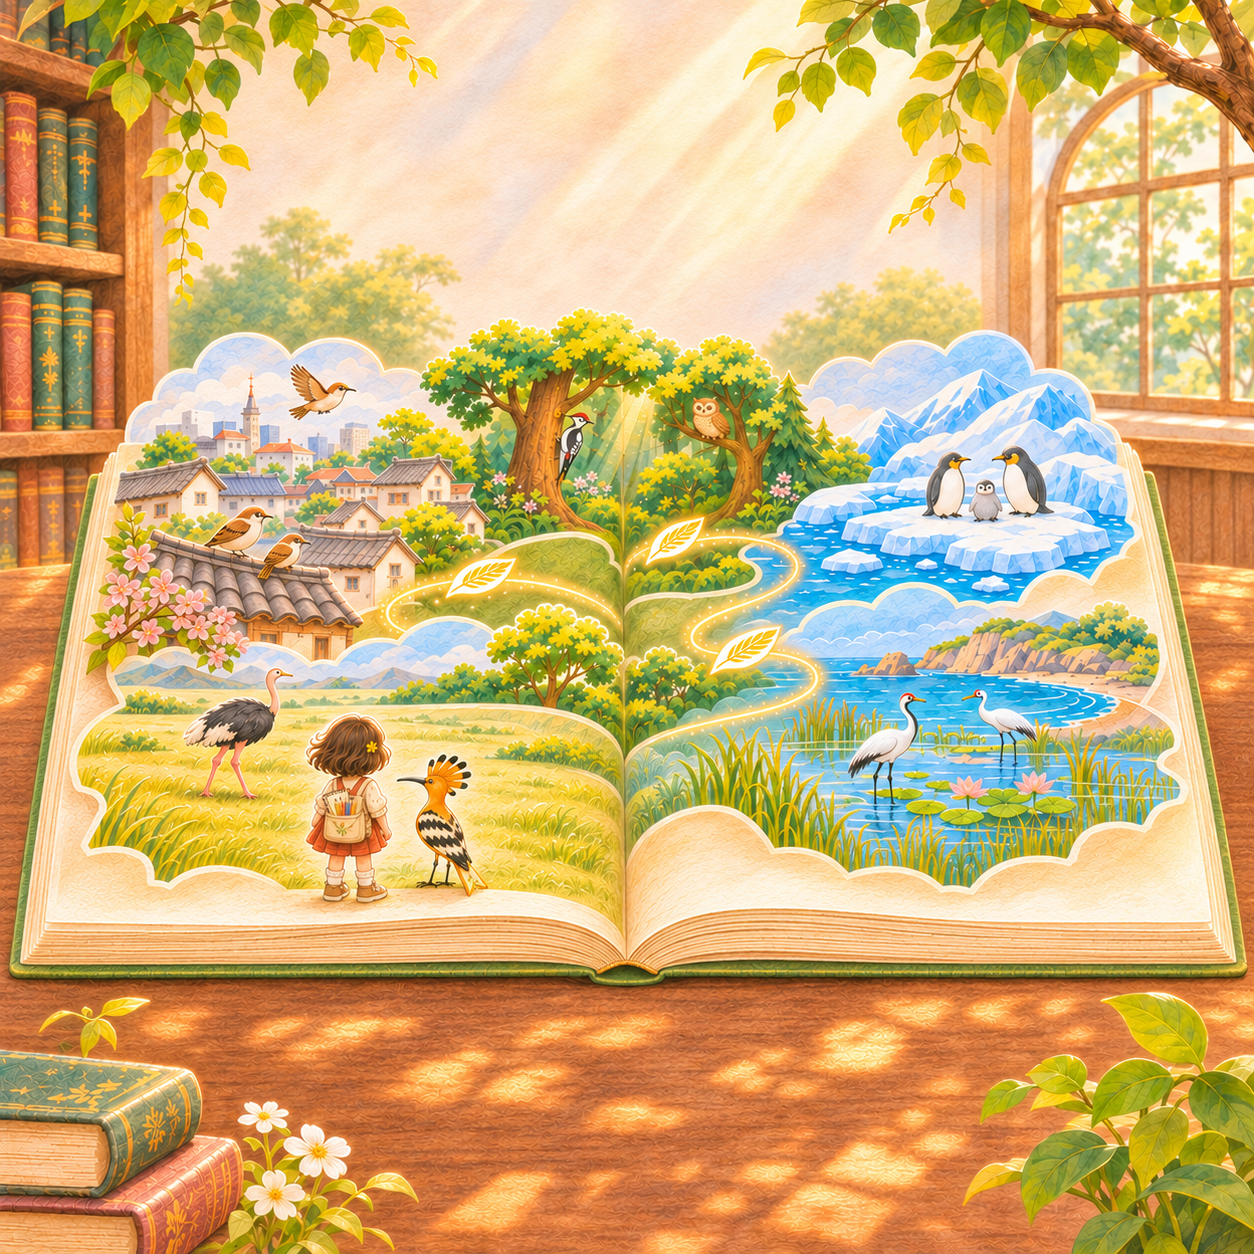
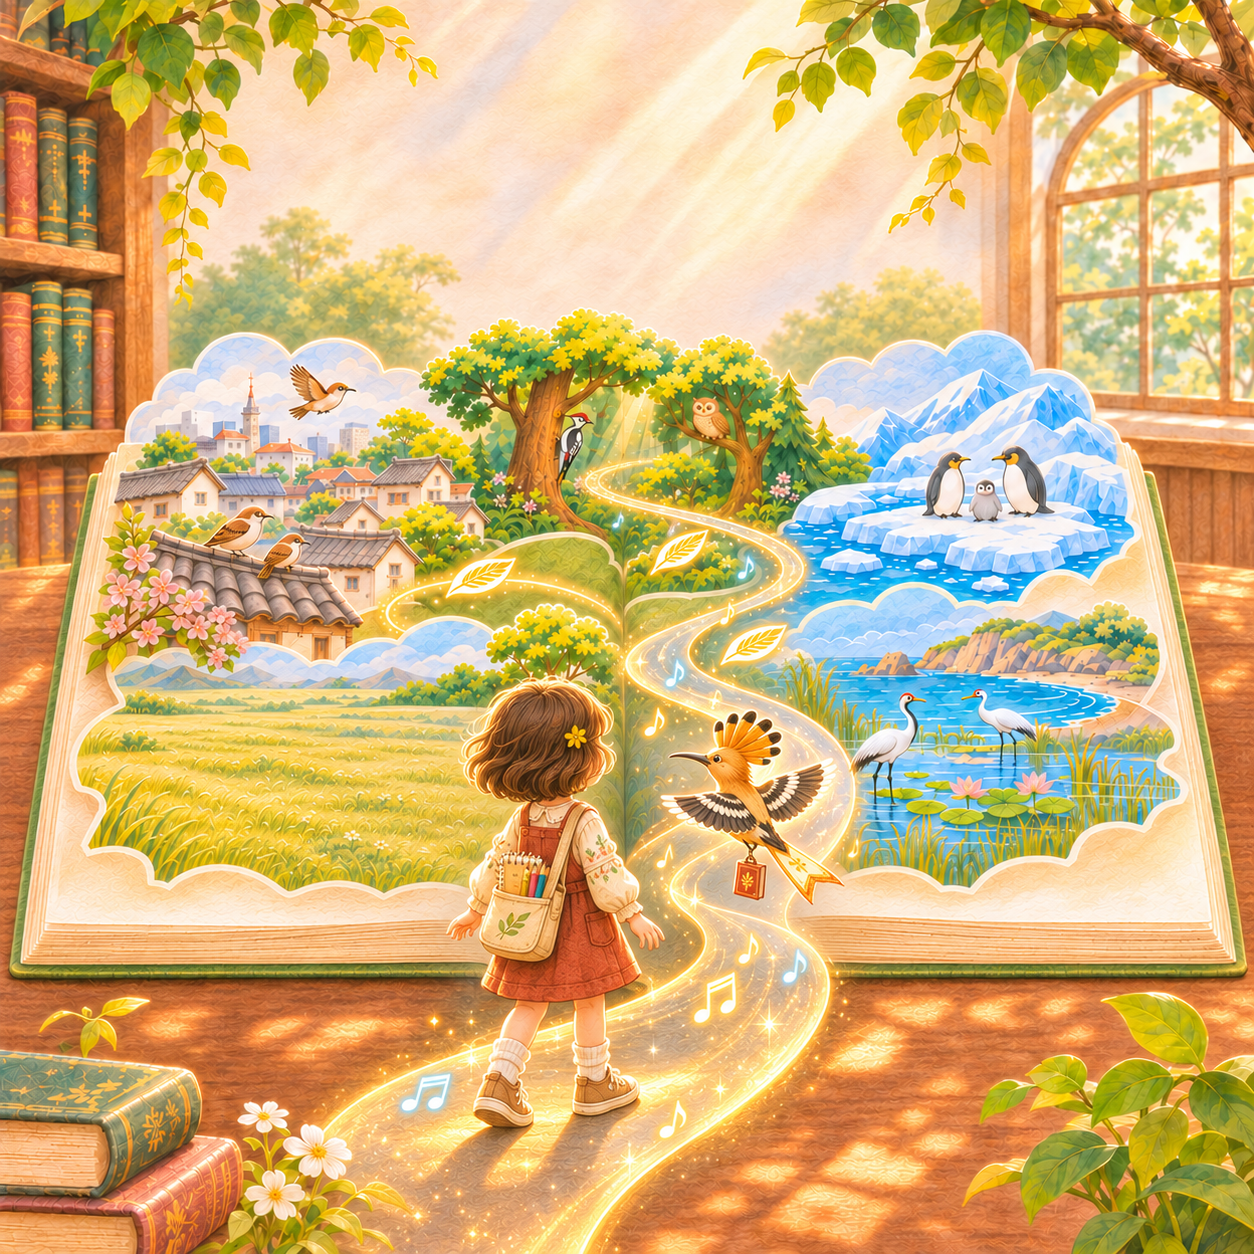
Correct bird sightlines and magical book scenes on eight pages

diff --git a/鸟类绘本/正式制图剧本.md b/鸟类绘本/正式制图剧本.md
@@ -9,7 +9,7 @@
 - 小满沿用已确认设定：5岁，脸型与短发保持一致，小布包里有笔记本和彩铅，第二章起增加便携录音机（P14准备，P15起实地使用；章扉为预告，封面不计入正文时间线）。服饰、鞋帽必须适应鸟类活动场景与天气：干燥草地穿轻便鞋，田边灌丛穿合适的徒步鞋与长裤，溪流泥地穿雨靴，室内穿轻便衣物。帽子按遮阳、防寒或防雨需要选择；不再固定黄外套与黄雨靴，也不为换装强行切换季节。
 - 羽羽是戴胜鸟书精灵：金棕色身体，黑尖扇形羽冠，细长微弯喙，黑白横斑翅膀，书签状尾羽。布谷鸟是另一只鸟：无羽冠、灰色头胸、浅色横纹腹部、深色长尾。
 - 全书延续温暖的儿童卡通水彩和彩铅风格。夜晚、雪地保留环境色，用灯光、衣服或晨昏光维持温暖感。
-- 金色双音符专属于布谷鸟线索；其他鸟鸣用不同色彩和节奏表示。实物、声音和魔法图示需可区分。
+- 布谷鸟声音线索采用成对金色音符；其他鸟鸣用不同色彩和节奏表示。P3的金蓝音符光路属于魔法转场，用道路的体积与延伸区分于真实鸟鸣声源。实物、声音和魔法图示需可区分。
 - 录音机统一使用[用户选中的P24款式及手部比例](制图参考/README.md)，保留顶部单个圆形灰色防风毛罩。机身与手的关系、按键布局和桌面实际尺寸跨页保持一致；未使用时可收在包内，不复制多台设备。
 - 书本带人物穿越不同地区和时段，不暗示所有鸟都生活在同一片森林。各页百科与故事分区排版，长文按自然语句断行。
 - 本稿保留四章与40页，章扉改为P3/P13/P21/P30，四章分别为10/8/9/7页。这里的页码是内容编号；若实体装订将封面另计，需另做印刷页码表。
@@ -41,7 +41,7 @@
 
 ### P1｜封面
 
-**画面建议：** 四章扩写版封面：巨大旧绿皮百科左右两面充分展开，左右内页朝上，中间书槽清楚，薄封皮贴在两侧纸页堆下方，书脊位于书槽下方自然连接；不画成箱子、竖直绿面板或单面封皮。小满双脚站稳在左侧展开的书页上，一手伸向羽毛，另一手自然保持平衡，穿米白叶纹长袖、砖红背带裙、袜子和浅棕帆布鞋；布包露出笔记本和彩铅，侧面挂小录音机。右侧少量内页可以轻轻翻起如翼，但仍可辨认左右两页的展开关系。羽羽保留戴胜鸟特征、书签尾羽与颈间砖红金边小书，带出羽毛路径。远景屋檐、树林、湿地与雪峰轻巧预告旅行，不暗示不同生境的鸟共处同一区域；右侧中景枝头灰色无冠布谷鸟与两枚金色音符保持次要。无字原画不带主标题、纸签或书脊汉字；标题正文和寻找提示独立透明交付。人物全身约画高40%，脸、双手、双脚和主要动物不贴四边，外围连续自然环境为装订留余量。
+**画面建议：** 四章扩写版封面：巨大旧绿皮百科左右两面充分展开，左右内页朝上，中间书槽清楚，薄封皮贴在两侧纸页堆下方，书脊位于书槽下方自然连接；不画成箱子、竖直绿面板或单面封皮。左右内页带有翠鸟、鸟翼、羽毛与枝叶等疏朗的平面彩绘，图案服从纸面透视、卷曲及鞋底遮挡，没有文字，不变成立体鸟或纸雕；小满双脚站稳在左侧展开的书页上，一手伸向羽毛，另一手自然保持平衡，穿米白叶纹长袖、砖红背带裙、袜子和浅棕帆布鞋；布包露出笔记本和彩铅，侧面挂小录音机。右侧少量内页可以轻轻翻起如翼，但仍可辨认左右两页的展开关系。羽羽保留戴胜鸟特征、书签尾羽与颈间砖红金边小书，带出羽毛路径。远景屋檐、树林、湿地与雪峰轻巧预告旅行，不暗示不同生境的鸟共处同一区域；右侧中景枝头灰色无冠布谷鸟与两枚金色音符保持次要。无字原画不带主标题、纸签或书脊汉字；标题正文和寻找提示独立透明交付。人物全身约画高40%，脸、双手、双脚和主要动物不贴四边，外围连续自然环境为装订留余量。
 
 **封面标题：** 羽毛图书馆：会飞的鸟类大百科
 
@@ -67,7 +67,7 @@
 
 ### P3｜第一章：飞向世界
 
-**画面建议：** 参考原章扉，以图书馆里的旧绿皮立体书地图预示旅程：屋檐、森林、浮冰、草原与湿地浮在纸上。小满与羽羽用小比例背影表现，避免提前重复下一页的初次见面；小满穿米白上衣、砖红背带裙和帆布鞋。
+**画面建议：** 图书馆里的旧绿皮立体地图书保留左右展开内页与屋檐、森林、浮冰、草原和湿地等生境模型。书槽中延伸出一条由音符与光线汇聚成的魔法道路，越过书的前沿通向书外图书馆空间，再回旋引向远方；近段光路有足够宽度承托双脚。小满作为有真实体积的女孩站在书外近景的音符光路上，鞋底有接触光晕与投影，不站在纸面插画里，不画成书中小人；穿米白上衣、砖红背带裙、帆布鞋，带笔记本和彩铅布包，以三分之四背影望向旅程。羽羽只有一只，在光路旁有体积地轻飞，保留戴胜特征、书签尾和红金小书挂件。四周留连续图书馆环境与装订余量，无标题、文字或纸签。
 
 **绘本文字：**
 
@@ -136,7 +136,7 @@
 
 ### P9｜湿地丹顶鹤
 
-**画面建议：** 保留浅水、芦苇、晨雾和完整倒影。小满在有护栏的潮湿栈道上看丹顶鹤轻抬一脚，穿米白植物纹外套、绿色裤装、绿色桶帽和黄色防水雨靴；羽羽停栏杆上，小音符书签藏在栈道边。双手轻扶膝部，四指向下、拇指位于掌侧，每手按四指加一拇绘制，不画四指卡通手；手型和接触关系自然。
+**画面建议：** 保留浅水、芦苇、晨雾和完整倒影。小满在有护栏的潮湿栈道上观察浅水丹顶鹤轻抬一脚，头颈自然转向鹤，降低原来过度仰视的下巴，双眼聚焦鹤的红顶与头部，不把栏杆羽羽或天空空处当作目标；穿米白植物纹外套、绿色裤装、绿色桶帽和黄色防水雨靴；羽羽停在靠近读者一侧的较高栏柱上，头冠避开小满到丹顶鹤之间的视线，小音符书签藏在栈道边。双手轻扶膝部，四指向下、拇指位于掌侧，每手按四指加一拇绘制，不画四指卡通手；手型和接触关系自然。
 
 **绘本文字：**
 
@@ -227,7 +227,7 @@
 
 ### P17｜月光里的歌
 
-**画面建议：** 本次书页旅行抵达暮色中的欧洲林地。小满沿溪边林路停步，举录音机倾听眼前灌丛枝头的棕褐色夜莺；暖灯照亮脚边。夜鹰在远处林冠缺口追逐飞虫，以真实连续环境表现，不用书页拼贴。
+**画面建议：** 本次书页旅行抵达暮色中的欧洲林地。小满沿溪边林路停步，举录音机倾听眼前灌丛枝头的棕褐色夜莺，降低下巴，头颈和双眼接近水平望向夜莺眼睛与喙，不仰看夜鹰或月亮；暖灯照亮脚边。夜鹰在远处林冠缺口追逐飞虫，以真实连续环境表现，不用书页拼贴。
 
 **绘本文字：**
 
@@ -238,7 +238,7 @@
 
 ### P18｜清晨的合唱
 
-**画面建议：** 清晨，小满沿林缘草地小径前行，一手拢耳、一手举录音机。拢耳手四指轻弯形成浅杯形，拇指位于掌侧，不堵耳或与头发融合；举机手自然包握机身，允许指节合理遮挡，手腕与前臂顺接，不遮满屏幕、红键及麦克风。羽羽停在路旁木桩。画眉在灌丛、百灵在草地上空、黄鹂在树冠，分布于同一个有纵深的自然场景，不作分框展示。
+**画面建议：** 清晨，小满沿林缘草地小径前行，一手拢耳、一手举录音机，头颈与双眼一起转向左上方空中飞唱的百灵；百灵位于小满左上方开阔天空，不望向右侧羽羽或空白处。拢耳手四指轻弯形成浅杯形，拇指位于掌侧，不堵耳或与头发融合；举机手自然包握机身，允许指节合理遮挡，手腕与前臂顺接，不遮满屏幕、红键及麦克风。羽羽停在路旁木桩。画眉在灌丛、百灵在草地上空、黄鹂在树冠，分布于同一个有纵深的自然场景，不作分框展示。
 
 **绘本文字：**
 
@@ -249,7 +249,7 @@
 
 ### P19｜湿地里的三位邻居
 
-**画面建议：** 小满走进芦苇间的弯曲木栈道，一手扶栏，一手举起录音机，目光追随身旁游过的黑水鸡。扶栏手掌根贴合栏顶，四指轻弯、拇指自然位于掌侧；拿录音机的手四指顺机身侧下缘包握承托，独立拇指轻扶另一侧，腕部与袖口顺接。双手均按四指加一拇绘制，允许自然遮挡，不强行摊开五指；手指不与木栏或机身融合，不遮挡屏幕、红键和麦克风。近景芦苇、水面倒影与伸向深处的栈道形成纵深，白鹭和苍鹭自然散落在远处湿地。黑水鸡额甲红、嘴尖黄、体羽深色；不与白额骨顶鸡混画。
+**画面建议：** 小满走进芦苇间的弯曲木栈道，一手扶栏，一手举起录音机，自然低头向右下方看近处游过的黑水鸡，头颈和瞳孔共同聚焦它的红额甲、眼睛与嘴，不能仰看远处白鹭苍鹭或录音机。扶栏手掌根贴合栏顶，四指轻弯、拇指自然位于掌侧；拿录音机的手四指顺机身侧下缘包握承托，独立拇指轻扶另一侧，腕部与袖口顺接。双手均按四指加一拇绘制，允许自然遮挡，不强行摊开五指；手指不与木栏或机身融合，不遮挡屏幕、红键和麦克风。近景芦苇、水面倒影与伸向深处的栈道形成纵深，白鹭和苍鹭自然散落在远处湿地。黑水鸡额甲红、嘴尖黄、体羽深色；不与白额骨顶鸡混画。
 
 **绘本文字：**
 
@@ -375,7 +375,7 @@
 
 ### P30｜第四章：鸟儿怎样生活
 
-**画面建议：** 魔法书页把小满和羽羽带到林缘步道。前景落叶、中景林下觅食的鸟影、远处竹林与栎树形成真实连续环境，预告本章林下家族、筑巢和储藏食物的生活，不用巨书托景或分框拼贴。小满一手拿录音机、一手握布包背带，侧头观察林下；拿机手四指从侧后方自然包握、独立拇指在对侧轻扶，腕部顺接前臂，机身不穿掌、不粘手。穿米白长袖、橄榄色长裤和包脚步行鞋，软檐帽按日照需要佩戴，保持5岁短发形象及羽羽的小书挂件。
+**画面建议：** 魔法书页把小满和羽羽带到林缘步道。前景落叶、中景林下觅食的鸟影、远处竹林与栎树形成真实连续环境，预告本章林下家族、筑巢和储藏食物的生活，不用巨书托景或分框拼贴。小满一手将录音机自然低持于下胸至腰侧，一手握布包背带；头颈和双眼明确朝左下方，聚焦树根边觅食的褐色鸟，机身避开视线，不看设备或空白处；拿机手四指从侧后方自然包握、独立拇指在对侧轻扶，腕部顺接前臂，机身不穿掌、不粘手。穿米白长袖、橄榄色长裤和包脚步行鞋，软檐帽按日照需要佩戴，保持5岁短发形象及羽羽的小书挂件。
 
 **绘本文字：**
 
@@ -397,7 +397,7 @@
 
 ### P32｜竹林里的野生亲戚
 
-**画面建议：** 竹林边缘的干燥落叶小径，雄原鸡羽毛醒目，附近有羽色低调的雌鸟。小满双脚稳站竹径，躯干和肩线自然侧向右侧原鸡，双手在下胸至腰部前方共同捧着画有家鸡的小速写本，抬头观察比较；取消高举扶竹动作，不保留旧手臂或残留指头。左右上臂从各自肩部自然向下，双肘低于肩并靠近身体，前臂向身前承托本子，腕部不反折；双手按四指加一拇绘制，允许纸页自然遮挡。背包位于背后，不能让手臂像从背部或包内伸出。羽羽在低竹栏旁陪伴，保留家鸡速写；小满穿浅薄荷绿长袖、橄榄色长裤、遮阳帽和包脚步行鞋，保持观察距离。
+**画面建议：** 竹林边缘的干燥落叶小径，雄原鸡羽毛醒目，附近有羽色低调的雌鸟。小满双脚稳站竹径，躯干和肩线自然朝向所观察的原鸡，双手在下胸至腰部前方共同捧着画有家鸡的小速写本，头颈自然转向画面左侧，降低仰头角度，双眼接近水平略向下聚焦石上雄原鸡的红冠和眼睛，不仰望树冠；取消高举扶竹动作，不保留旧手臂或残留指头。左右上臂从各自肩部自然向下，双肘低于肩并靠近身体，前臂向身前承托本子，腕部不反折；双手按四指加一拇绘制，允许纸页自然遮挡。背包位于背后，不能让手臂像从背部或包内伸出。羽羽在低竹栏旁陪伴，保留家鸡速写；小满穿浅薄荷绿长袖、橄榄色长裤、遮阳帽和包脚步行鞋，保持观察距离。
 
 **绘本文字：**
 

diff --git a/鸟类绘本/正式素材/README.md b/鸟类绘本/正式素材/README.md
@@ -4,7 +4,7 @@
 
 依据[正式制图剧本](../正式制图剧本.md)与[制图约束规范](../制图约束规范.md)，按新版章节顺序归档。场景保存工具生成原尺寸，不超分或插值放大；标题正文与纸签为真正RGBA透明PNG，按原生像素无损分离，未用电脑字体替代手写字。工具输出的PPI元数据按实际保留，不用PPI声称新增细节。
 
-本轮重新构图、适当缩小主体，外围连续自然环境为装订预留空间；生成比例是目标，需结合实际印刷工艺继续审阅。封面巨书两面展开，小满站一侧书页。
+本轮重新构图、适当缩小主体，外围连续自然环境为装订预留空间；生成比例是目标，需结合实际印刷工艺继续审阅。封面巨书两面展开，内页有平面自然彩绘，小满站一侧书页；P3小满站在由书内延伸到书外的音符光路上。
 
 P1为寻找提示；P37为观察记录（含本页百科）；P38献辞、P39封三没有百科，不生成虚构贴士；P40为亲子观察。标题正文层包含本页正文，不只标题；P38仅保留正式献辞，不另加标题。
 
@@ -57,15 +57,15 @@ P1为寻找提示；P37为观察记录（含本页百科）；P38献辞、P39封
 
 | 页码 | SHA-256 |
 |---|---|
[15 lines of base64/hex data omitted]
@@ -73,9 +73,9 @@ P1为寻找提示；P37为观察记录（含本页百科）；P38献辞、P39封
[12 lines of base64/hex data omitted]
@@ -86,9 +86,9 @@ P1为寻找提示；P37为观察记录（含本页百科）；P38献辞、P39封
[11 lines of base64/hex data omitted]

diff --git a/鸟类绘本/制图约束规范.md b/鸟类绘本/制图约束规范.md
@@ -33,7 +33,7 @@
 - 随身小布包，露出笔记本和彩铅。第二章起按情节使用便携录音机，避免无意复制出多台相同道具。
 - 录音机按[用户确认款与手部比例](制图参考/README.md)绘制：深灰小型竖式机身、一个圆形灰色防风毛罩、上方小屏、屏下小红键、下半部圆形控制区。P24标准原图保持不改；其他手持、桌面及包侧状态统一同款与实际比例，每景只一台，不改成双毛球、大音箱或无毛罩的另一款。
 - 衣服、鞋帽随天气、地面与活动变化。黄色雨靴不是永久标识；无雨水、泥地时不默认穿雨靴。
-- 观察时眼神明确望向鸟；画画时看记录，听录音时可闭眼微笑，动作应与情节相符。
+- 观察时先确定一只具体目标鸟，再让头颈、下巴仰俯角与双眼瞳孔共同指向它的头或正在发生的动作，不能统一仰头看天空，也不能把羽羽或录音机误作目标。画画时看记录，听录音时可闭眼微笑。P9看丹顶鹤，P17近乎平视枝头夜莺，P18向左上看空中百灵，P19低头看近处黑水鸡，P30向左下看树根觅食鸟，P32近乎平视雄原鸡；以当前图中实际位置核对，不能只照抄抽象的“抬头观察”。
 
 ### 羽羽：戴胜鸟书精灵
 
@@ -48,7 +48,7 @@
 - 可卡通化，但不能借用戴胜的羽冠、金棕色身体，也不能画成啄木鸟。
 - 显形鸣叫时，两脚抓住树枝，身体侧向近水平，抬头张嘴；不竖直抱住树干。
 - 非主角页面可只用远处剪影、声波或两枚小金色音符暗示，不频繁画实体、不抢主体。
-- 金色双音符保留为布谷鸟线索，其他鸟声可用轻巧蓝色、珊瑚色声波区分。
+- 成对金色音符用于布谷鸟声音线索，其他鸟声可用轻巧蓝色、珊瑚色声波区分。P3的金蓝音符光路属于独立的魔法转场：有宽度的道路由书中延伸到书外，小满作为有体积的人物站在路上，不是纸面插画中的小人；不把光路解释为某只真实鸟正在鸣叫。
 - 本仓库未附布谷鸟实拍参考；制作时使用上述已确认物种特征，不假定能访问其他聊天附件。
 
 其他鸟类也须核对关键形态、大小、习性与生境，不用通用小鸟外形替代所有鸟种。知识表述避免绝对化，不能把“有模仿能力”画成“每只都会说人话”。
@@ -107,7 +107,7 @@
 ## 7. 封面专属要求
 
 - 1:1方形。中央旧绿皮百科左右两面展开，左右内页朝上，中间书槽清楚；两侧纸堆下是薄封皮，书脊在书槽下方自然连接。不能画成竖直绿面板、箱子或单面封皮。
-- 小满双脚站在一侧展开书页上，不站在圆弧书脊或竖直封皮边缘；一手伸向羽毛，另一手自然平衡。右页少量翻起仍保留两面展开关系。羽羽保留书签尾和颈间小书，旁有细小羽毛路径。
+- 小满双脚站在一侧展开书页上，不站在圆弧书脊或竖直封皮边缘；一手伸向羽毛，另一手自然平衡。内页有疏朗的鸟类、鸟翼、羽毛和枝叶平面彩绘，服从纸面透视、卷曲与鞋底遮挡，没有文字，不留成整面空白或变成立体动物。右页少量翻起仍保留两面展开关系。羽羽保留书签尾和颈间小书，旁有细小羽毛路径。
 - 淡金晨光，远处麻雀、猫头鹰、企鹅、丹顶鹤、鹦鹉剪影保持次要。
 - 右下角极小布谷鸟剪影与金色双音符，不能抢主体。
 - 主书名：《羽毛图书馆：会飞的鸟类大百科》。封面正文为“翻开一页，就飞进一个鸟的世界。”“听，布谷鸟在叫。”

diff --git a/skills/childrens-picturebook-illustration/SKILL.md b/skills/childrens-picturebook-illustration/SKILL.md
@@ -76,6 +76,8 @@ Apply these constraints to this project. The user's latest confirmed correction 
 ## 画面叙事：小满亲历场景
 
 - 小满应真正进入鸟类所在的环境，通过走、停、听、跨树根、扶栏、记录、侧身寻找等动作推进探索。人物的动作与视线要有明确对象，眼睛应看向正在观察的鸟或记录内容。
+- 每页先锁定一个具体观察目标，再按实际图中的左右、高低和距离同时调整头颈、下巴仰俯角及双眼瞳孔；不能用通用仰头笑脸代替观察，也不能只挪眼珠而让脸仍朝着空白处。目标是鸟时，核对是否误看羽羽、录音机、天空或另一只鸟；设备挡住视野时，在当前授权范围内自然降低持物手。全图与面部放大图都要看，成品不画视线箭头。
+- 鸟类P3采用书中延伸到书外的音符与光线道路，小满以有体积的人物站在宽光路上，鞋底有接触关系，不再成为纸面地图里的小人。金蓝音符在此页是魔法转场，区别于真实鸟鸣声源；P1仍保持小满站在展开内页上的封面结构。
 - 默认采用有亲历感的儿童高度中景，兼顾人物表情与环境。不要把小满缩成远处的小点，也不要把她固定放在画面边角、让鸟类排成展示队列。
 - 用前景遮挡、中景行动、远景栖息地，以及道路、水流、树枝的走向建立透视。需要拉开人与鸟距离时，可让鸟停在另一棵远树上；不要仅靠极端拉远镜头来表达高度。
 - 不同页面改变人物位置、动作、朝向、镜头角度和空间层次，避免反复使用同一蹲姿、同一条栈道、同一片金色芦苇或同一夕阳。
@@ -175,6 +177,8 @@ Apply these constraints to this project. The user's latest confirmed correction 
 **Format and role:** 1:1 square, warm watercolor-and-colored-pencil children's cover, with separate text-free art and transparent lettering.
 
 **Book structure:** A real giant hardback lies open with BOTH inner-page surfaces facing upward and a readable central gutter. Layered paper edges sit above thin green covers resting beneath the pages; the spine curves naturally below the gutter. Do not draw a green box, two upright cover panels, or one exposed cover standing as a wall. Xiaoman stands with both feet on one open inner-page surface, not on the spine or an upright cover edge. A few right-hand pages may lift gently like wings while preserving the two-sided open-book structure.
+
+**Page illustrations:** The visible inner pages contain sparse flat watercolor field-guide drawings of birds, a wing, feathers and leaves. Let the drawings follow page perspective and curvature and disappear naturally beneath Xiaoman's shoes; keep them visibly printed/painted on paper. Do not leave the pages entirely blank, add lettering, or turn the drawings into extra living birds or pop-up scenery.
 
 **Character and framing:** Keep the same five-year-old short-haired Xiaoman, cream leaf-patterned long sleeves, brick-red pinafore, socks and light brown canvas shoes. Her bag contains a notebook and colored pencils; a small recorder may preview a later chapter on this cover. One hand reaches toward a feather; the other balances naturally. Keep her complete body around 40% of the canvas height, with environmental space above, below, left and right. Check actual margins rather than assuming a requested percentage was obeyed.
 
